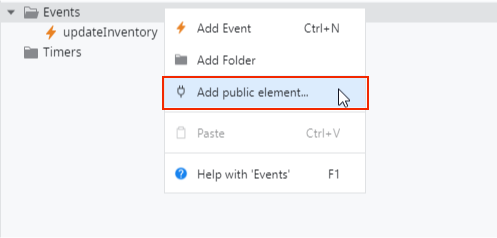
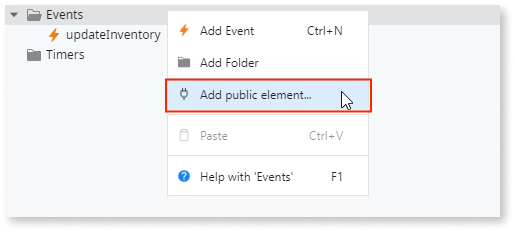
RDTKF-20174 Update diagrams, add shadow effect and suffix to filename (#775)

diff --git a/src/eap/building-apps/events/backend-events.md b/src/eap/building-apps/events/backend-events.md
@@ -5,18 +5,18 @@ locale: en-us
 guid: 54254c98-5a1e-42c3-a280-fa2aae5c5abe
 app_type: mobile apps, reactive web apps
 platform-version: odc
-figma: https://www.figma.com/file/6G4tyYswfWPn5uJPDlBpvp/Building-apps?type=design&node-id=4868%3A1212&mode=design&t=zUkmbQzcPpGAmdjH-1
+figma: https://www.figma.com/file/6G4tyYswfWPn5uJPDlBpvp/Building-apps?type=design&node-id=4703-118&mode=design&t=oH4GYDMLoIxKmaoI-0
 ---
 
 # Back-end events
 
-Back-end events act as internal triggers, defining conditions to execute a response to specific events. This promotes asynchronous communication between apps, where an event occurring in one app can trigger an event handler in another. 
+Back-end events act as internal triggers, defining conditions to execute a response to specific events. This promotes asynchronous communication between apps, where an event occurring in one app can trigger an event handler in another.
 
 Back-end events allow the automation of repetitive tasks that involve high volumes of data, such as orchestrating data between apps or initiating batch processing. For example, you can use them to automate monthly billing for subscribers in a streaming app.
 
-![Graphic showing various use cases for backend events in application automation](images/uses-back-end.png "Use Cases for Backend Events")
+![Graphic showing various use cases for backend events in application automation](images/uses-back-end-diag.png "Use Cases for Backend Events")
 
-Back-end events follow a publisher/subscriber model (pub/sub). 
+Back-end events follow a publisher/subscriber model (pub/sub).
 
 * Event publisher: Generates an event when a change occurs and publishes it to an event subscriber
 * Event subscriber: Subscribes to a specific event producer(s) to receive and react to the event
@@ -31,7 +31,7 @@ ODC apps can handle a maximum of one hundred back-end events simultaneously per 
 
 </div>
 
-![Diagram illustrating asynchronous communication between different applications](images/asyn-btw-apps.png "Asynchronous Communication Between Apps")
+![Diagram illustrating asynchronous communication between different applications](images/asyn-btw-apps-diag.png "Asynchronous Communication Between Apps")
 
 You can add input parameters to a back-end event to pass additional information from the event publisher to subscribers(s).  For example, a new account event in a finance app can have input parameters such as the user's address and phone number.
 
@@ -41,13 +41,13 @@ Back-end events support basic input parameters like Text, Decimals, Date, Time, 
 
 </div>
 
-Back-end events are scoped to a specific stage. For example, a back-end event in an app within a development environment can only be handled by the same or another app within the same environment. 
+Back-end events are scoped to a specific stage. For example, a back-end event in an app within a development environment can only be handled by the same or another app within the same environment.
 
 ## Create an event
 
 To create an event, go to ODC Studio and follow these steps:
 
-1. On the **Processes** tab, right-click **Events**, and select **Add Event**. 
+1. On the **Processes** tab, right-click **Events**, and select **Add Event**.
 1. Set the relevant properties for the new event in the properties panel.
 
     <div class="info" markdown="1">
@@ -69,20 +69,20 @@ To publish an event, you must define a trigger for an event. Go to ODC Studio an
 
 ![Screenshot of ODC Studio interface showing the process to trigger a backend event](images/trigger-backend-event-odcs.png "Publish a Backend Event")
 
-To make the event accessible in other apps, click 1-Click Publish to publish the event as a [public element](../use-public-elements.md). Once an event is published, multiple subscribers can handle it. 
+To make the event accessible in other apps, click 1-Click Publish to publish the event as a [public element](../use-public-elements.md). Once an event is published, multiple subscribers can handle it.
 
-## Subscribe to an event 
+## Subscribe to an event
 
 You can subscribe to an event in the same producer or another app. To subscribe to an event, go to ODC Studio and follow these steps:
 
 1. On the **Processes** tab, right-click **Events**, and select **Add public element**. The public element popup displays.
 
     ![Screenshot of ODC Studio interface demonstrating how to subscribe to a backend event](images/public-event-odcs.png "Subscribe to a Backend Event")
-   
+
 1. Select the public element(s) you want to add to your app and click **Add**.
 
     <div class="info" markdown="1">
-    
+
     To subscribe to an event from the same app, right-click on the event you want to select.
 
     </div>
@@ -92,7 +92,7 @@ You can subscribe to an event in the same producer or another app. To subscribe 
 
 ## Handling errors
 
-If a back-end event fails, it raises an exception, and you must handle it. For example, if back-end event handlers exceed the two-minute timeout, ODC raises an exception. Refer to [handling exceptions](../handling_exceptions/handling-mechanism.md) to learn more. 
+If a back-end event fails, it raises an exception, and you must handle it. For example, if back-end event handlers exceed the two-minute timeout, ODC raises an exception. Refer to [handling exceptions](../handling_exceptions/handling-mechanism.md) to learn more.
 
 ODC automatically retries back-end events when an unhandled exception or timeout occurs in the event handler, preventing the loss of back-end events due to transient issues. ODC can attempt up to ten retries in case of a failed event.
 

diff --git a/src/eap/building-apps/events/intro.md b/src/eap/building-apps/events/intro.md
@@ -5,7 +5,7 @@ locale: en-us
 guid: 5bfd1452-1ff8-4180-a437-65603671437b
 app_type: mobile apps, reactive web apps
 platform-version: odc
-figma: https://www.figma.com/file/6G4tyYswfWPn5uJPDlBpvp/Building-apps?type=design&node-id=4899%3A360&mode=design&t=mCB2zDPcFcH2IZGf-1
+figma: https://www.figma.com/file/6G4tyYswfWPn5uJPDlBpvp/Building-apps?type=design&node-id=5324%3A590&mode=design&t=2ZbamW0IMDYxtZbC-1
 ---
 # Events
 
@@ -16,14 +16,14 @@ Events facilitate process automation without impacting the user experience and e
 The Screens and Blocks follow a lifecycle composed of stages, allowing you to act upon those stages using event handler actions. These event handlers provide visibility into the lifecycle of screens and blocks, allowing you to implement logic when certain events occur.
 
 In ODC, events follow the publish/subscribe (pub/sub) paradigm, allowing asynchronous communication. This model simplifies the development of highly functional and architecturally complex apps within cloud-native architectures.
- 
+
 ## Event-driven architecture
 
 Event-driven architecture (EDA) promotes app independence, with each component having minimal dependencies. EDA enhances team autonomy by enabling the development of apps with loosely coupled dependencies. EDA follows a reactive programming model, where decoupled components offer a dynamic approach to event handling.
 
-![Diagram showing the flow of events from a producer app to a message broker and then to subscriber apps with event handlers.](images/Architecture-diagram-events.png "Event-Driven Architecture Diagram")
+![Diagram showing the flow of events from a producer app to a message broker and then to subscriber apps with event handlers.](images/events-architecture-diag.png "Event-Driven Architecture Diagram")
 
-Producer apps define events and triggers. When an event triggers, the producer publishes the event in the message broker. Subsequently, subscribers interested in specific events can subscribe to them through the message broker. 
+Producer apps define events and triggers. When an event triggers, the producer publishes the event in the message broker. Subsequently, subscribers interested in specific events can subscribe to them through the message broker.
 
 Subscribers define event handlers to react to events asynchronously through server actions. The subscriber app consumes an event sent by the producer app, creating a weak reference.
 
